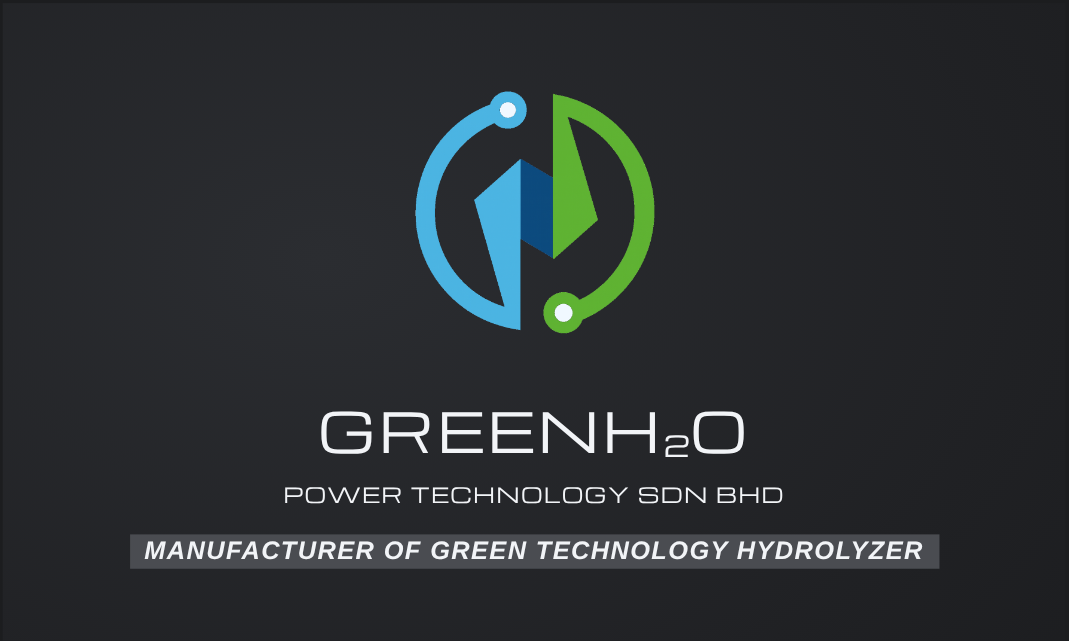
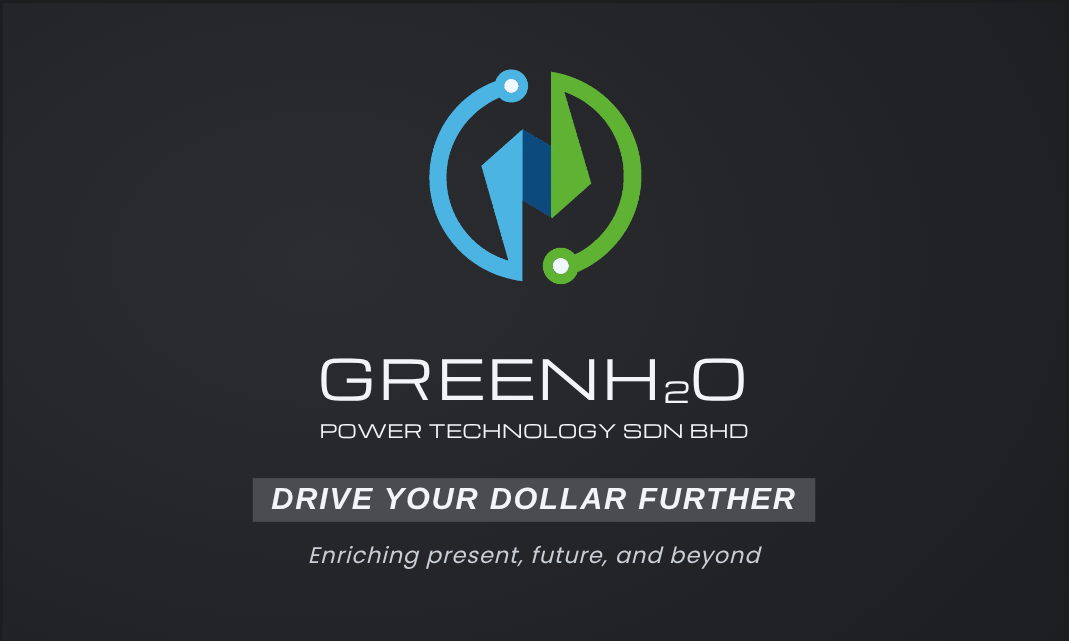
Business card back: match wordmark widths, new tagline
Company line is letter-spaced to the exact width of the GREENH2O
wordmark. Tagline replaced with "Drive your dollar further" and
sub-line "Enriching present, future, and beyond".

Claude-Session: https://claude.ai/code/session_01J8VhJZJX27hmnaajm3CCtV

Changed region(s): [[0.1235, 0.7488, 0.8952, 0.9048], [0.3704, 0.0936, 0.6174, 0.5304], [0.2778, 0.5616, 0.71, 0.7176]]

diff --git a/business-card/card.html b/business-card/card.html
@@ -45,21 +45,30 @@
   .row.addr .txt { font-size: 1.95mm; line-height: 1.4; }
 
   /* ---------- BACK (logo side) ---------- */
-  .back .logo { position: absolute; left: 50%; top: 5.2mm; width: 26mm; transform: translateX(-50%); }
+  .back .logo { position: absolute; left: 50%; top: 3.6mm; width: 23mm; transform: translateX(-50%); }
+  .back .stack { position: absolute; left: 0; right: 0; top: 29.5mm; display: flex; flex-direction: column; align-items: center; }
+  .back .lockup { line-height: 0; font-size: 0; display: flex; flex-direction: column; align-items: center; }
+  .back .brand { line-height: 1 !important; }
   .back .brand {
-    position: absolute; left: 0; right: 0; top: 33mm; text-align: center;
-    font-family: 'Michroma', sans-serif; font-size: 4.6mm; letter-spacing: .25mm;
+    display: inline-block; font-family: 'Michroma', sans-serif; font-size: 4.6mm; letter-spacing: .25mm;
+    line-height: 1; white-space: nowrap;
   }
-  .back .brand sub { font-size: 2.4mm; vertical-align: -.35mm; letter-spacing: 0; }
+  .back .brand sub { font-size: 2.4mm; vertical-align: baseline; position: relative; top: .35mm; letter-spacing: 0; line-height: 0; }
+  /* .co letter-spacing is stretched by script below so its width matches .brand exactly */
   .back .co {
-    position: absolute; left: 0; right: 0; top: 40.3mm; text-align: center;
-    font-family: 'Michroma', sans-serif; font-size: 1.75mm; letter-spacing: .1mm;
+    display: block; margin-top: 1.6mm; font-family: 'Michroma', sans-serif; font-size: 1.55mm;
+    line-height: 1; white-space: nowrap; text-align: left;
   }
-  .back .tag {
-    position: absolute; left: 50%; top: 45.2mm; transform: translateX(-50%);
-    background: #4a4c51; padding: .25mm 1.2mm; white-space: nowrap;
+  .back .main {
+    margin-top: 3.2mm;
+    background: #4a4c51; padding: .3mm 1.6mm; white-space: nowrap;
     font-family: 'Saira Condensed', sans-serif; font-style: italic; font-weight: 700;
-    font-size: 2.15mm; letter-spacing: .12mm; color: #f2f4f7;
+    font-size: 2.6mm; letter-spacing: .15mm; text-transform: uppercase; color: #f2f4f7;
+  }
+  .back .sub {
+    margin-top: 2mm; text-align: center; line-height: 1.2;
+    font-family: 'Poppins', sans-serif; font-style: italic; font-size: 1.9mm; letter-spacing: .08mm;
+    color: #c9ced6;
   }
 </style>
 </head>
@@ -99,10 +108,28 @@
 <!-- BACK -->
 <section class="card back">
   <img class="logo" src="logo-dark.png" alt="GreenH2O logo">
-  <div class="brand">GREENH<sub>2</sub>O</div>
-  <div class="co">POWER TECHNOLOGY SDN BHD</div>
-  <div class="tag">MANUFACTURER OF GREEN TECHNOLOGY HYDROLYZER</div>
+  <div class="stack">
+  <div class="lockup">
+    <div class="brand">GREENH<sub>2</sub>O</div>
+    <span class="co">POWER TECHNOLOGY SDN BHD</span>
+  </div>
+  <div class="main">Drive your dollar further</div>
+  <div class="sub">Enriching present, future, and beyond</div>
+  </div>
 </section>
 
+<script>
+  // Stretch company line to the exact width of the GREENH2O wordmark
+  document.fonts.ready.then(() => {
+    const b = document.querySelector('.back .brand'), c = document.querySelector('.back .co');
+    // brand has trailing letter-spacing after last glyph; exclude it
+    const bw = b.getBoundingClientRect().width - parseFloat(getComputedStyle(b).letterSpacing);
+    c.style.letterSpacing = '0px'; c.style.display = 'inline-block';
+    const n = c.textContent.length, cw = c.getBoundingClientRect().width;
+    const ls = (bw - cw) / (n - 1);
+    c.style.letterSpacing = ls + 'px'; c.style.marginRight = (-ls) + 'px'; c.style.display = 'block';
+    document.body.dataset.fitted = '1';
+  });
+</script>
 </body>
 </html>
